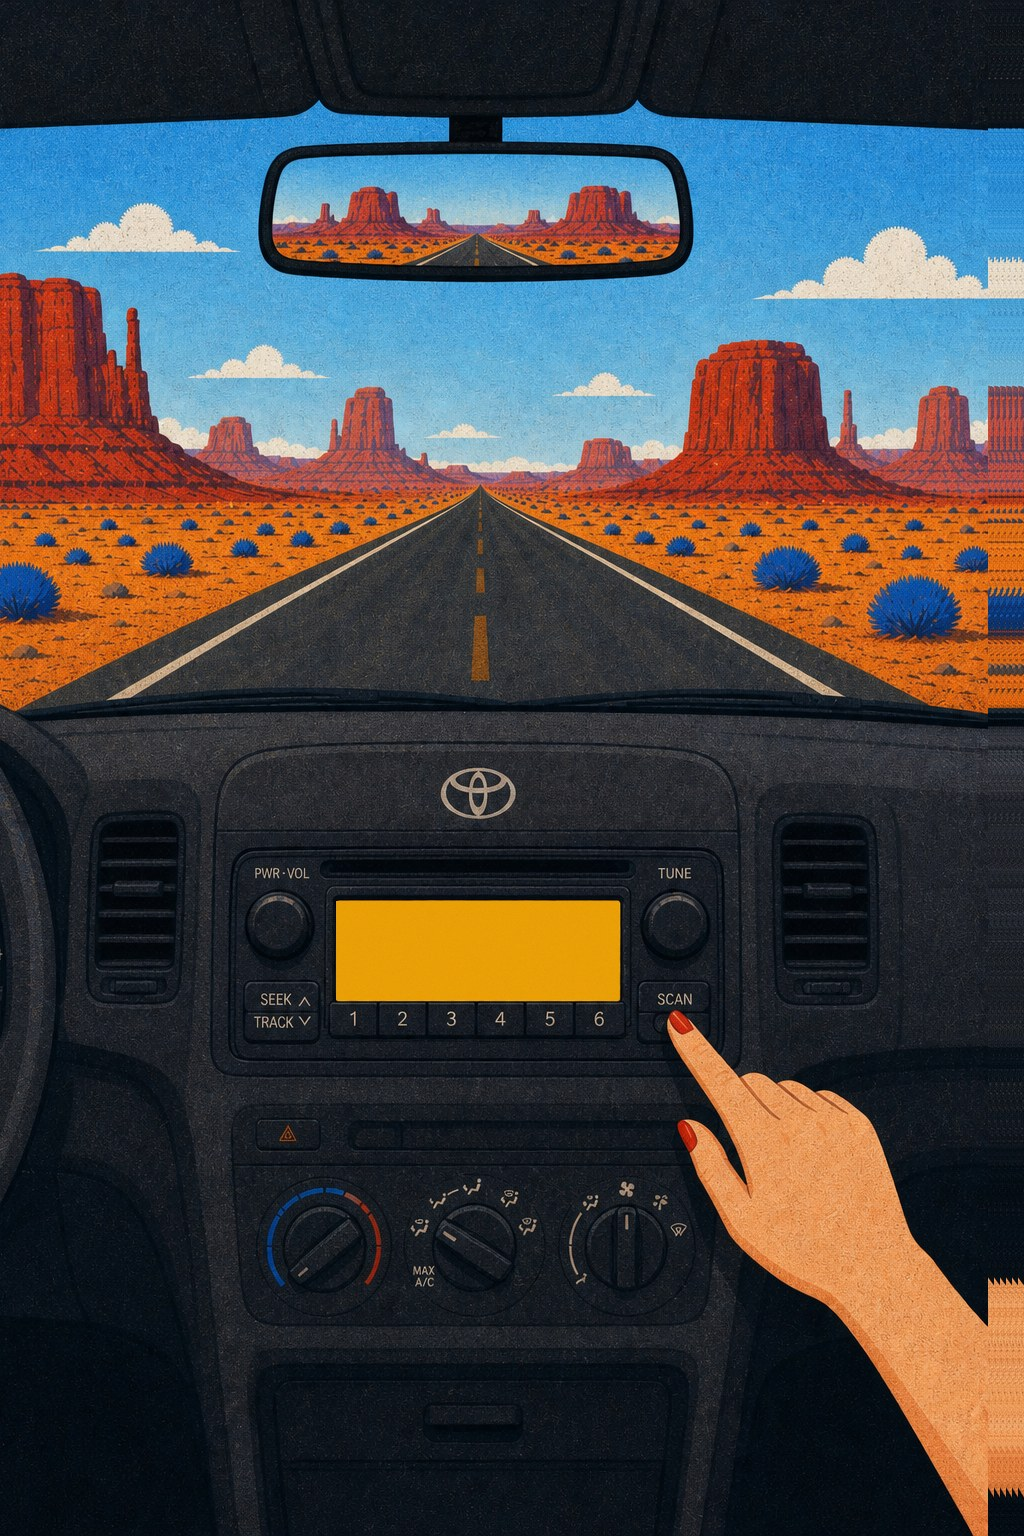
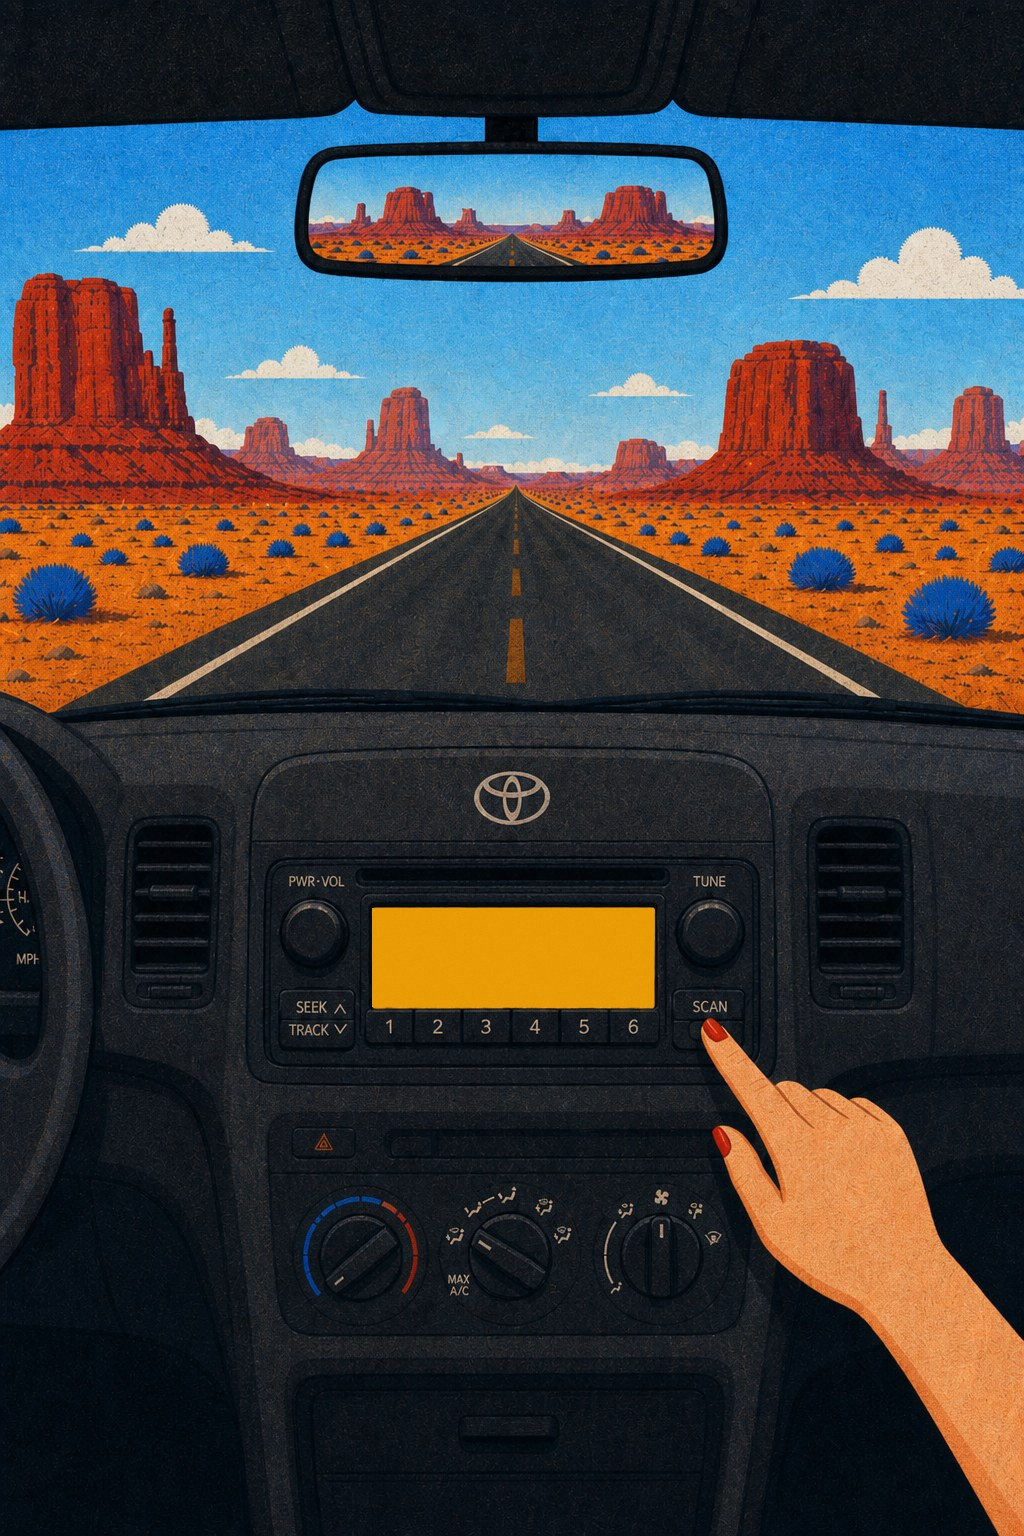
Re-center hero radio on the true vertical midline.
New portrait art aligns Toyota mark, LCD, presets, mirror, and
road vanishing point; hotspot math updated and cache-busted.

Changed region(s): [[0.0, 0.0625, 1.0, 1.0], [0.8125, 0.5312, 0.9062, 0.6562], [0.7188, 0.5, 0.75, 0.5312]]

diff --git a/src/components/HomeCanvas.tsx b/src/components/HomeCanvas.tsx
@@ -19,12 +19,12 @@ const CHANNELS = [
   { id: 6, label: "HELLO", href: "mailto:hello@offcourse.studio" },
 ] as const;
 
-/** Amber LCD panel (nudged left for optical center with hand on right). */
-const DISPLAY = { x0: 0.328, y0: 0.587, x1: 0.605, y1: 0.651 };
+/** Amber LCD panel — aligned to image & screen center. */
+const DISPLAY = { x0: 0.363, y0: 0.591, x1: 0.639, y1: 0.656 };
 
 /** Image-normalized button centres under the LCD. */
-const BUTTON_CX = [0.361, 0.403, 0.445, 0.487, 0.529, 0.572];
-const BUTTON_CY = 0.686;
+const BUTTON_CX = [0.398, 0.439, 0.48, 0.522, 0.563, 0.604];
+const BUTTON_CY = 0.688;
 const BUTTON_W = 0.042;
 const BUTTON_H = 0.038;
 
@@ -45,8 +45,8 @@ function coverLayout(vw: number, vh: number) {
   });
 
   // Road dash corridor in the windshield
-  const roadY0 = dy + dh * 0.34;
-  const roadY1 = dy + dh * 0.5;
+  const roadY0 = dy + dh * 0.33;
+  const roadY1 = dy + dh * 0.48;
   const cx = dx + dw * 0.5;
   const halfFar = dw * 0.008;
   const halfNear = dw * 0.04;
@@ -122,9 +122,9 @@ export function HomeCanvas() {
       className="relative h-[100svh] w-full overflow-hidden bg-[#1a1a1a]"
     >
       <picture>
-        <source srcSet={`${BASE}/hero-car-road.webp?v=3`} type="image/webp" />
+        <source srcSet={`${BASE}/hero-car-road.webp?v=5`} type="image/webp" />
         <img
-          src={`${BASE}/hero-car-road.jpg?v=3`}
+          src={`${BASE}/hero-car-road.jpg?v=5`}
           alt=""
           className="absolute inset-0 h-full w-full object-cover select-none"
           draggable={false}
